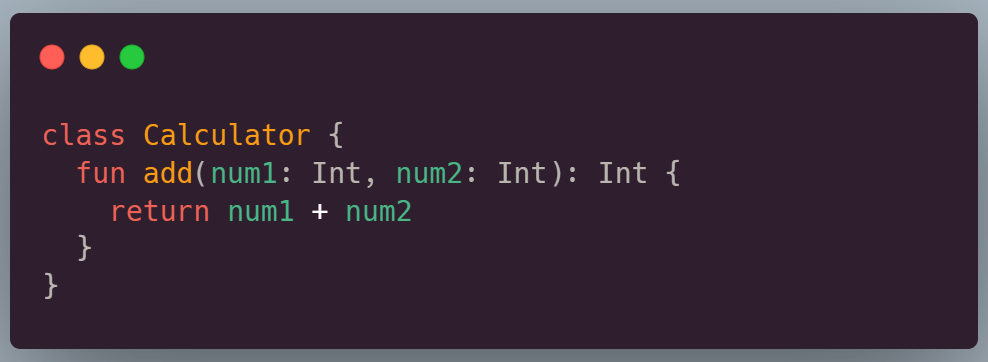
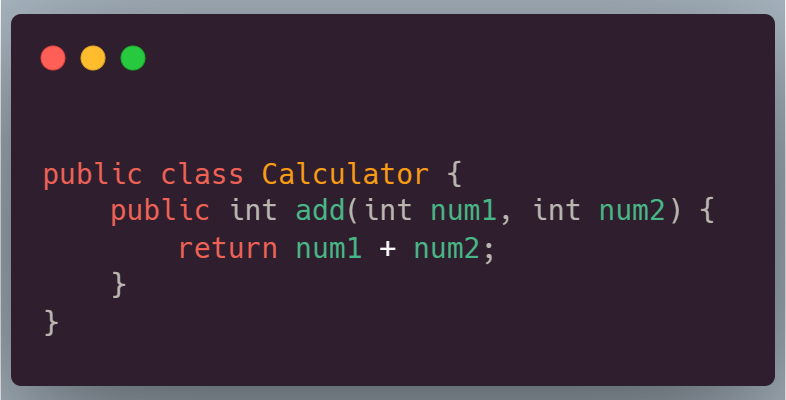
update to Java TDD clasi example

diff --git a/entries/software/tdd/classic/redGreenRefactor.html b/entries/software/tdd/classic/redGreenRefactor.html
@@ -101,6 +101,12 @@
       <img src="test.png" class="uk-margin" alt="Red - Green - Refactor" />
       <img src="codeRed.png" class="uk-margin" alt="Red - Green - Refactor" />
     </div>
+    <p class="uk-text-justify">
+      Veamos ahora un fallo del test por la razón correcta con este código:
+    </p>
+    <div class="uk-flex uk-flex-center uk-flex-column">
+      <img src="rightFail.png" class="uk-margin" alt="Red - Green - Refactor" />
+    </div>
     <h3 class="uk-heading">Green</h3>
     <p class="uk-text-justify">
       Una vez creado el código con nuestro diseño aplicado, pasamos al segundo
